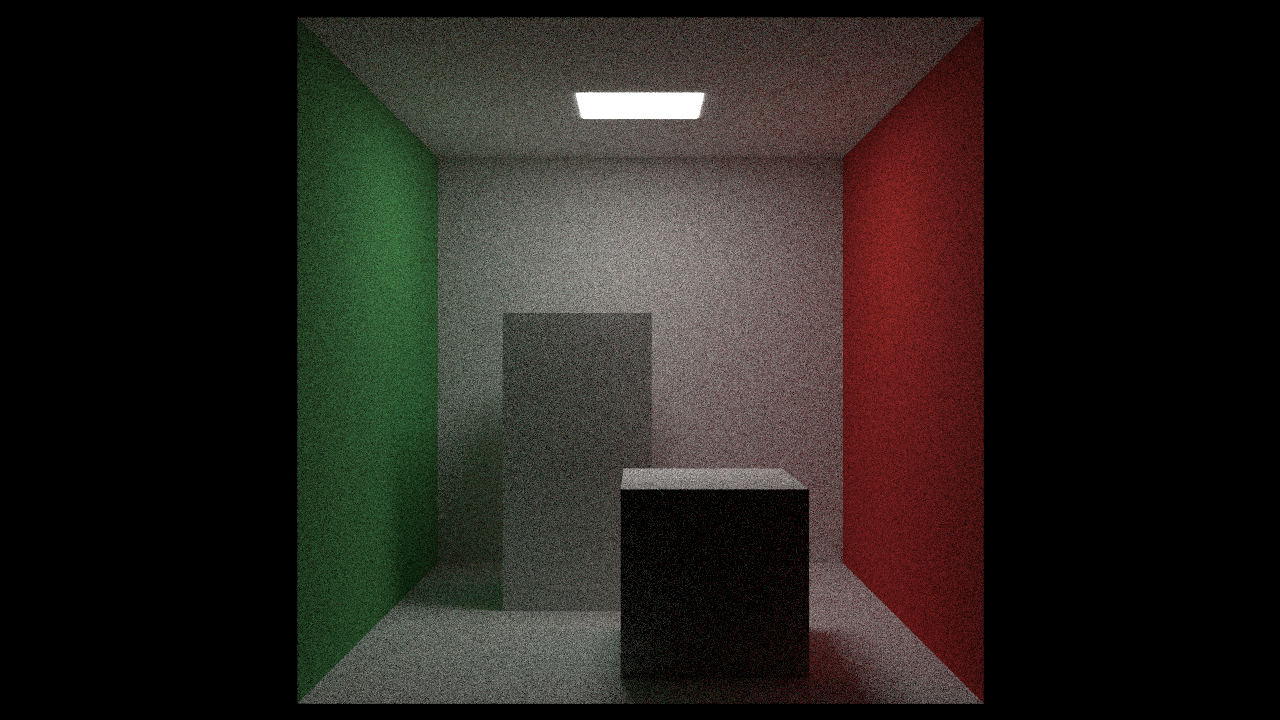
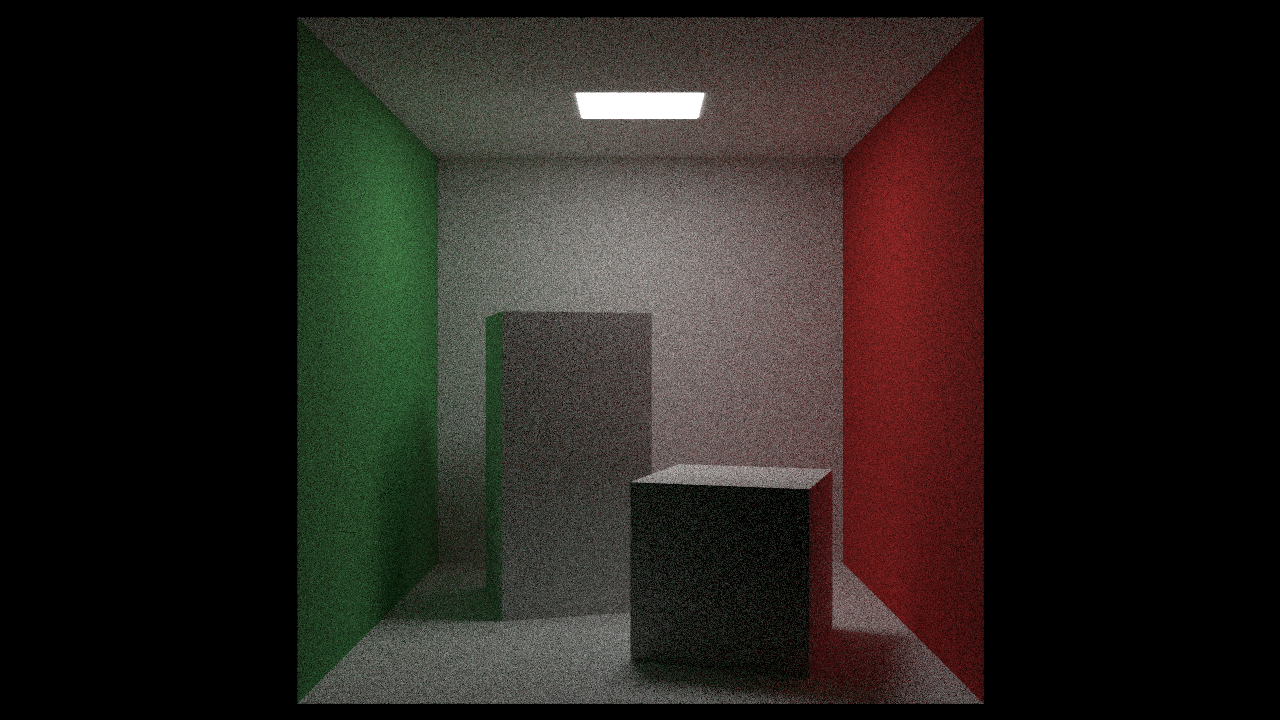
feat: cornell box with correct rotation

Changed region(s): [[0.2188, 0.0, 0.7812, 0.9778]]

diff --git a/src/common/hittable.h b/src/common/hittable.h
@@ -17,3 +17,108 @@ struct Hittable                                         //
           bool(const Ray& ray, const Interval& ray_t, HitRecord& hit_rec) const> //
       ::add_convention<MemBB, AABB() const>                                      //
       ::build {};
+
+
+struct Translate {
+    Translate(const pro::proxy<Hittable>& object, const Vec3d& offset)
+        : m_object(object),
+          m_offset(offset) {
+        m_bbox = m_object->bounding_box() + m_offset;
+    }
+
+    bool hit(const Ray& ray, const Interval& ray_t, HitRecord& hit_rec) const {
+        // Move the ray backwards by the offset
+        Ray offset_r {ray.origin() - m_offset, ray.direction(), ray.time()};
+
+        // Determine whether an intersection exists along the offset ray (and if so, where)
+        if (!m_object->hit(offset_r, ray_t, hit_rec)) {
+            return false;
+        }
+
+        // Move the intersection point forwards by the offset
+        hit_rec.p += m_offset;
+
+        return true;
+    }
+
+    AABB bounding_box() const { return m_bbox; }
+
+    pro::proxy<Hittable> m_object;
+    Vec3d m_offset;
+    AABB m_bbox;
+};
+
+
+struct RotateY {
+    RotateY(const pro::proxy<Hittable>& object, const double angle) : m_object(object) {
+        const double radians = deg2rad(angle);
+        m_sin_theta = std::sin(radians);
+        m_cos_theta = std::cos(radians);
+        m_bbox = m_object->bounding_box();
+
+        Vec3d min {infinity, infinity, infinity};
+        Vec3d max {-infinity, -infinity, -infinity};
+
+        for (int i = 0; i < 2; ++i) {
+            for (int j = 0; j < 2; ++j) {
+                for (int k = 0; k < 2; ++k) {
+                    const double x = i * m_bbox.x.max + (1 - i) * m_bbox.x.min;
+                    const double y = j * m_bbox.y.max + (1 - j) * m_bbox.y.min;
+                    const double z = k * m_bbox.z.max + (1 - k) * m_bbox.z.min;
+
+                    const double newx = m_cos_theta * x + m_sin_theta * z;
+                    const double newz = -m_sin_theta * x + m_cos_theta * z;
+
+                    const Vec3d tester {newx, y, newz};
+
+                    min = min.array().min(tester.array()).matrix();
+                    max = max.array().max(tester.array()).matrix();
+                }
+            }
+        }
+
+        m_bbox = AABB {min, max};
+    }
+
+
+    bool hit(const Ray& ray, const Interval& ray_t, HitRecord& hit_rec) const {
+        // Transform the ray from world space to object space
+
+        const Vec3d origin {                                                     //
+            (m_cos_theta * ray.origin().x()) - (m_sin_theta * ray.origin().z()), //
+            ray.origin().y(),                                                    //
+            (m_sin_theta * ray.origin().x()) + (m_cos_theta * ray.origin().z())};
+        const Vec3d direction {                                                        //
+            (m_cos_theta * ray.direction().x()) - (m_sin_theta * ray.direction().z()), //
+            ray.direction().y(),                                                       //
+            (m_sin_theta * ray.direction().x()) + (m_cos_theta * ray.direction().z())};
+
+        const Ray rotated_ray {origin, direction, ray.time()};
+
+        // Determine whether an intersection exists in object space (and if so, where)
+
+        if (!m_object->hit(rotated_ray, ray_t, hit_rec)) {
+            return false;
+        }
+
+        // Transform the intersection from object space back to world space
+
+        hit_rec.p = Vec3d {                                                //
+            (m_cos_theta * hit_rec.p.x()) + (m_sin_theta * hit_rec.p.z()), //
+            hit_rec.p.y(),                                                 //
+            (-m_sin_theta * hit_rec.p.x()) + (m_cos_theta * hit_rec.p.z())};
+        hit_rec.normal = Vec3d {                                                     //
+            (m_cos_theta * hit_rec.normal.x()) + (m_sin_theta * hit_rec.normal.z()), //
+            hit_rec.normal.y(),                                                      //
+            (-m_sin_theta * hit_rec.normal.x()) + (m_cos_theta * hit_rec.normal.z())};
+
+        return true;
+    }
+
+    AABB bounding_box() const { return m_bbox; }
+
+    pro::proxy<Hittable> m_object;
+    double m_cos_theta;
+    double m_sin_theta;
+    AABB m_bbox;
+};

diff --git a/utils/use_core.cpp b/utils/use_core.cpp
@@ -324,8 +324,16 @@ void render_cornell_box(const std::string& output_image_format) {
     world.add(pro::make_proxy_shared<Hittable, Quad>(Vec3d {0.0, 0.0, 555.0},
         Vec3d {555.0, 0.0, 0.0}, Vec3d {0.0, 555.0, 0.0}, white));
 
-    world.add(box(Vec3d {130.0, 0.0, 65.0}, Vec3d {295.0, 165.0, 230.0}, white));
-    world.add(box(Vec3d {265.0, 0.0, 295.0}, Vec3d {430.0, 330.0, 460.0}, white));
+    auto box1 = box(Vec3d {0.0, 0.0, 0.0}, Vec3d {165.0, 330.0, 165.0}, white);
+    box1 = pro::make_proxy_shared<Hittable, RotateY>(box1, 15.0);
+    box1 = pro::make_proxy_shared<Hittable, Translate>(box1, Vec3d {265.0, 0.0, 295.0});
+
+    auto box2 = box(Vec3d {0.0, 0.0, 0.0}, Vec3d {165.0, 165.0, 165.0}, white);
+    box2 = pro::make_proxy_shared<Hittable, RotateY>(box2, -18.0);
+    box2 = pro::make_proxy_shared<Hittable, Translate>(box2, Vec3d {130.0, 0.0, 65.0});
+
+    world.add(box1);
+    world.add(box2);
 
     pro::proxy<Hittable> world_as_hittable = &world;
 

diff --git a/src/common/interval.h b/src/common/interval.h
@@ -36,3 +36,11 @@ public:
 
 inline const Interval Interval::empty = Interval {+infinity, -infinity};
 inline const Interval Interval::universe = Interval {-infinity, +infinity};
+
+inline Interval operator+(const Interval& interval, const double displacement) {
+    return Interval {interval.min + displacement, interval.max + displacement};
+}
+
+inline Interval operator+(const double displacement, const Interval& interval) {
+    return interval + displacement;
+}

diff --git a/src/common/aabb.h b/src/common/aabb.h
@@ -93,3 +93,11 @@ private:
 
 inline const AABB AABB::empty {Interval::empty, Interval::empty, Interval::empty};
 inline const AABB AABB::universe {Interval::universe, Interval::universe, Interval::universe};
+
+inline AABB operator+(const AABB& bbox, const Vec3d& offset) {
+    return AABB {bbox.x + offset.x(), bbox.y + offset.y(), bbox.z + offset.z()};
+}
+
+inline AABB operator+(const Vec3d& offset, const AABB& bbox) {
+    return bbox + offset;
+}
